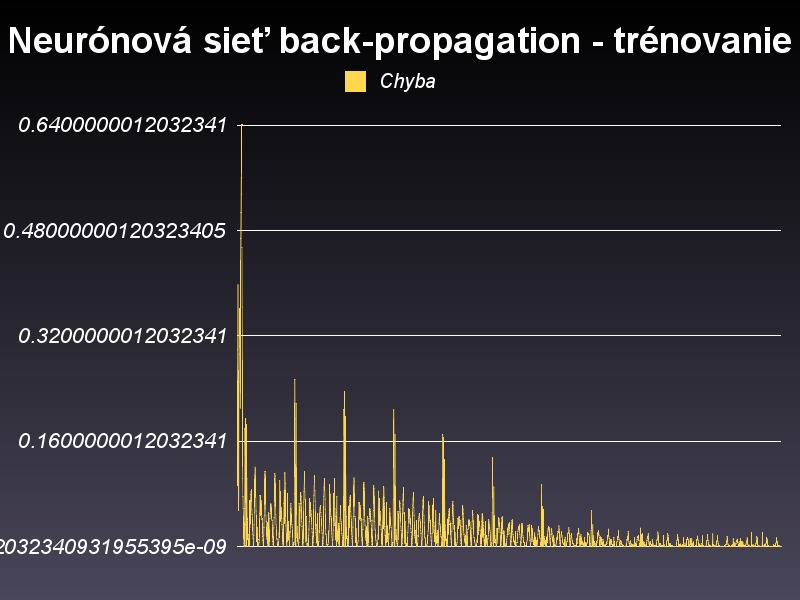
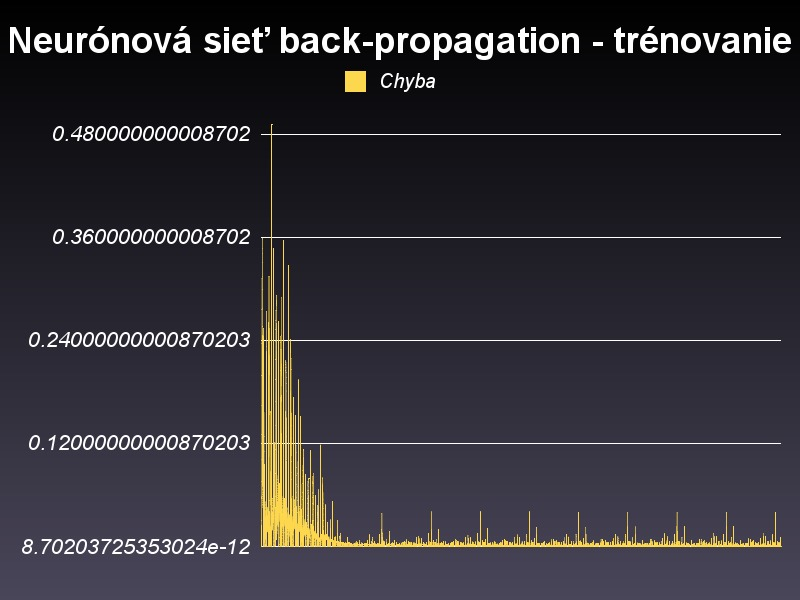
predikcia

Changed region(s): [[0.0, 0.36, 0.9688, 0.93], [0.0312, 0.18, 0.3125, 0.24]]

diff --git a/app/controllers/home_controller.rb b/app/controllers/home_controller.rb
@@ -302,8 +302,8 @@ before_filter :authenticate_admin!
   
   	if params[:datum]		
   		@start = RealValue.find(params[:datum])
-  		@trenovanie1 = RealValue.where(:cas=>@start.cas-5.days..@start.cas).
-  								where("osvit > 20")
+  		@trenovanie1 = RealValue.where(:cas=>@start.cas-20.days..@start.cas)#.
+#  								where("osvit > 0.5")
   		# normalizacia
   		@trenovanie_osvit = []
   		@trenovanie_teplota = []
@@ -317,8 +317,7 @@ before_filter :authenticate_admin!
   							(RealValue.maximum("teplota")-RealValue.minimum("teplota"))
   		end #trenovanie.each do...
   		@pocet_neuronov = params[:pocet_neuronov].to_i || 3
-  		@trenovan = Matrix[[0.4,-0.7],[0.3,-0.5],[0.6,0.1],[0.2,0.4],[0.1,-0.2]]
-  		@out = Matrix[[0.1],[0.05],[0.3],[0.25],[0.12]]
+
   		#vytvori maticu vstupov
   		@trenovanie = Matrix[@trenovanie_osvit, @trenovanie_teplota].t
   		@trenovanie_out = Matrix[@trenovanie_out].t
@@ -328,9 +327,9 @@ before_filter :authenticate_admin!
   		vahy2=[]
   		vahyout=[]
   		@pocet_neuronov.times do
-  			vahy1 << rand
-  			vahy2 << rand
-  			vahyout << rand	
+  			vahy1 << (rand*2-1)
+  			vahy2 << rand*2-1
+  			vahyout << rand*2-1	
   		end
   		@vahy_v = Matrix[vahy1,vahy2]
   		@vahy_w = Matrix.column_vector(vahyout)
@@ -344,7 +343,8 @@ before_filter :authenticate_admin!
   		@error = 1
   		@error_learning = []
   		time = Time.now
-  		while @error>0.00000001 && @error< 10  		
+  		cyklov = 0
+  		while (@error>0.00000001 && @error< 10) || (cyklov<20000) 
   			@vstup = Matrix.column_vector(@trenovanie.row(i))
   			@vystup = Matrix.column_vector(@trenovanie_out.row(i))
   		 		
@@ -369,6 +369,11 @@ before_filter :authenticate_admin!
   			@vystup_final = Matrix[pole]
   			# 7
   			@error = (@vystup-@vystup_final).sum**2
+  			#if @error < 0.00000001
+  			 cyklov = cyklov +1
+  			 #else 
+  			 #cyklov = 0
+  			 #end
   			# 8
   			@d = ((@vystup-@vystup_final)*@vystup_final*(1-@vystup_final.sum)).sum
   			@y = @vystup_hidden*@d
@@ -397,22 +402,61 @@ before_filter :authenticate_admin!
   			
   			i=(i+1).modulo(@trenovanie.row_size)
   		end #while error
+  		
   		@dlzka = Time.now - time
   		
-  		@g_neuro = Gruff::Line.new
+  	@g_neuro = Gruff::Line.new
 	@g_neuro.title = "Neurónová sieť back-propagation - trénovanie" 
-
 	@g_neuro.data("Chyba", @error_learning)
-
-
 	@g_neuro.write('public/assets/neuro_learning.jpg')
+	
+  	@predikcia = []
+  	@real = []
+  	RealValue.where(:cas=>@start.cas..(@start.cas+3.days)).each do |hodnota|
+  		@predikcia << predikuj(hodnota, @vahy_v, @vahy_w)
+  		@real << hodnota.vykon
+  	end #each.do |hodnota|  	
   		
-  		
+  	@g_predik = Gruff::Line.new
+	@g_predik.title = "Neurónová sieť back-propagation - predikcia" 
+	@g_predik.data("Predikcia", @predikcia)
+	@g_predik.data("Reálne hodnoty", @real)
+	@g_predik.write('public/assets/neuro_prediction.jpg')	
   		
   	end # if params[:datum]
   	
   end # def neuronova siet
 
+
+  def predikuj(hodnota, vahy_v, vahy_w)
+    osvit = (hodnota.osvit-RealValue.minimum("osvit"))/
+  						(RealValue.maximum("osvit")-RealValue.minimum("osvit"))
+  	teplota = (hodnota.teplota-RealValue.minimum("teplota"))/
+  							(RealValue.maximum("teplota")-RealValue.minimum("teplota"))
+  	trenovanie = Matrix[[osvit], [teplota]].t
+  	vstup = Matrix.column_vector(trenovanie.row(0))
+  	#vypocita vstupy do skrytych neuronov - 
+  	# transpose = transponovana matica
+  	# krok 5
+  	vstup_hidden = vahy_v.transpose*vstup
+  	# krok 6
+  	vystup_hidden = Matrix.build(vstup_hidden.row_size,1) { 0 }
+  	pole=[]
+  	vstup_hidden.column(0).each_with_index do |riadok, row, col|
+  		pole[row] = 1/(1+Math.exp(-1*riadok))
+  	end
+  	vystup_hidden=Matrix.column_vector(pole)
+  	# krok 7
+  	vstup_final = vahy_w.transpose*vystup_hidden
+  	pole = []
+  	vstup_final.column(0).each_with_index do |riadok, row, col|
+  		pole[row] = 1/(1+Math.exp(-1*riadok))
+  	end
+  	# 
+  	vysledok = Matrix[pole].sum*(RealValue.maximum("vykon")-RealValue.minimum("vykon"))+RealValue.minimum("vykon")
+  	
+  	return vysledok
+  end
 
 
 end
